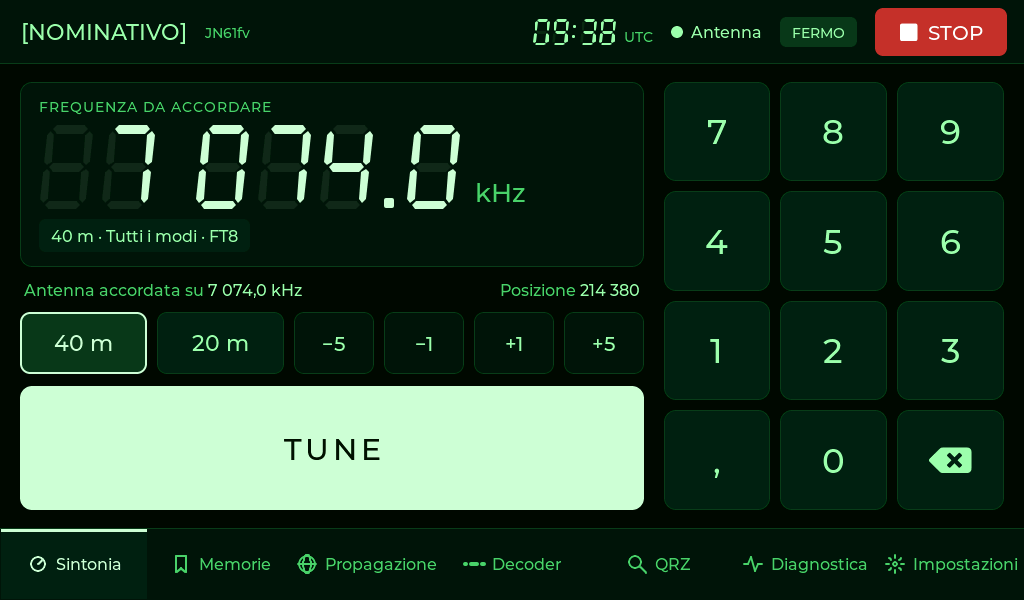
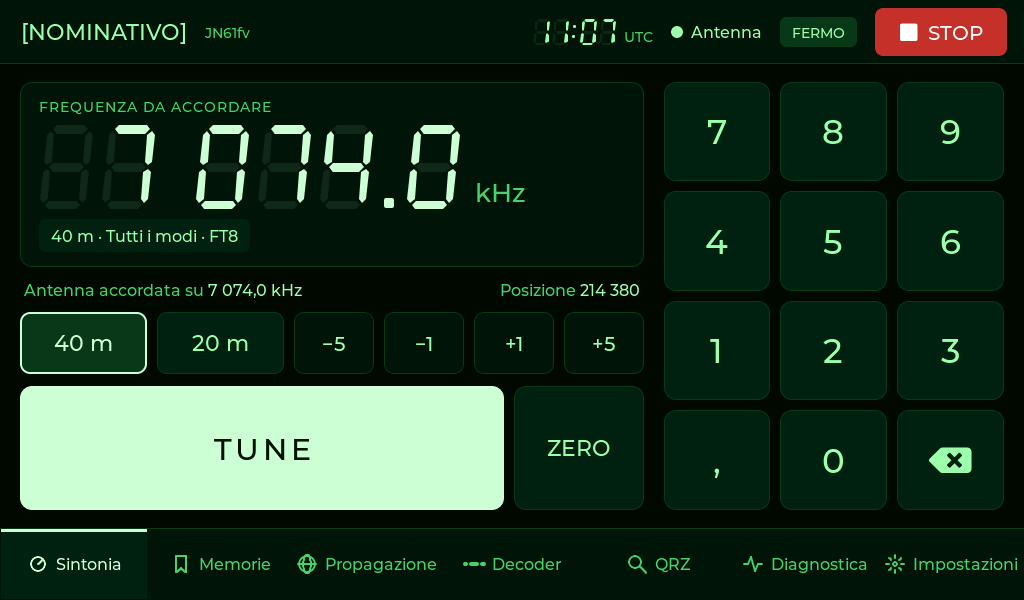
Pannello: pulsante ZERO in Sintonia e in Calibrazione
Mancava sul pannello (c'era solo nella pagina web e in console), mentre la
Calibrazione chiedeva di premerlo prima del jog.
- Sintonia: ZERO accanto a TUNE (requisito S7).
- Calibrazione: ZERO nel riquadro della posizione (requisito K1).
Disattivati quando l'antenna non è collegata. Schermate aggiornate.

Changed region(s): [[0.4688, 0.63, 0.6562, 0.87], [0.2188, 0.72, 0.375, 0.78], [0.5312, 0.03, 0.5938, 0.09]]

diff --git a/firmware/pannello/src/ui/pagina_sintonia.cpp b/firmware/pannello/src/ui/pagina_sintonia.cpp
@@ -27,6 +27,7 @@ lv_obj_t* testoPosizione;
 lv_obj_t* btn40;
 lv_obj_t* btn20;
 lv_obj_t* btnTune;
+lv_obj_t* btnZero;
 
 const char* TASTI[] = {"7", "8", "9", "\n", "4", "5", "6", "\n", "1", "2", "3", "\n",
                        ",", "0", LV_SYMBOL_BACKSPACE, ""};
@@ -89,6 +90,9 @@ void aggiornaIngresso() {
   }
   ui::stilePulsante(btn40, b == bande::Banda::B40M ? ui::Stile::ATTIVO : ui::Stile::NORMALE);
   ui::stilePulsante(btn20, b == bande::Banda::B20M ? ui::Stile::ATTIVO : ui::Stile::NORMALE);
+
+  if (collegato) lv_obj_clear_state(btnZero, LV_STATE_DISABLED);
+  else lv_obj_add_state(btnZero, LV_STATE_DISABLED);
 
   lv_obj_t* l = lv_obj_get_child(btnTune, 0);
   if (valida && collegato) {
@@ -161,6 +165,9 @@ void premiTune(lv_event_t*) {
   fresco = true;
 }
 
+// Azzeramento sul finecorsa (anche il primo TUNE di ogni banda lo fa da solo)
+void premiZero(lv_event_t*) { link_antenna::invia(proto::Tipo::ZERO); }
+
 }  // namespace
 
 void crea(lv_obj_t* c) {
@@ -207,12 +214,19 @@ void crea(lv_obj_t* c) {
     lv_obj_add_event_cb(b, premiPasso, LV_EVENT_CLICKED, (void*)(intptr_t)passi[i]);
   }
 
-  btnTune = ui::pulsante(sx, "TUNE", &font_30, ui::Stile::PRIMARIO);
-  lv_obj_set_width(btnTune, LV_PCT(100));
+  lv_obj_t* filaTune = ui::contenitore(sx, LV_FLEX_FLOW_ROW, 10);
+  lv_obj_set_width(filaTune, LV_PCT(100));
+  lv_obj_set_flex_grow(filaTune, 1);
+  btnTune = ui::pulsante(filaTune, "TUNE", &font_30, ui::Stile::PRIMARIO);
+  lv_obj_set_height(btnTune, LV_PCT(100));
   lv_obj_set_flex_grow(btnTune, 1);
   lv_obj_set_style_radius(btnTune, 12, 0);
   lv_obj_set_style_text_letter_space(lv_obj_get_child(btnTune, 0), 4, 0);
   lv_obj_add_event_cb(btnTune, premiTune, LV_EVENT_CLICKED, nullptr);
+  btnZero = ui::pulsante(filaTune, "ZERO", &font_22, ui::Stile::NORMALE);
+  lv_obj_set_size(btnZero, 130, LV_PCT(100));
+  lv_obj_set_style_radius(btnZero, 12, 0);
+  lv_obj_add_event_cb(btnZero, premiZero, LV_EVENT_CLICKED, nullptr);
 
   // --- tastierino ---
   lv_obj_t* bm = lv_btnmatrix_create(c);

diff --git a/firmware/pannello/src/ui/pagina_calibrazione.cpp b/firmware/pannello/src/ui/pagina_calibrazione.cpp
@@ -25,6 +25,7 @@ lv_obj_t* btn40;
 lv_obj_t* btn20;
 lv_obj_t* displayPos;
 lv_obj_t* testoMm;
+lv_obj_t* btnZero;
 lv_obj_t* campoFreq;
 lv_obj_t* tastiera = nullptr;
 lv_obj_t* grafico;
@@ -74,6 +75,8 @@ void scegliBanda(lv_event_t* e) {
   evidenziaBanda();
   link_antenna::richiediTabella(banda);
 }
+
+void premiZero(lv_event_t*) { link_antenna::invia(proto::Tipo::ZERO); }
 
 void premiJog(lv_event_t* e) {
   link_antenna::invia(proto::Tipo::JOG, 0, (int32_t)(intptr_t)lv_event_get_user_data(e));
@@ -229,6 +232,11 @@ void crea(lv_obj_t* c) {
   displayPos = display7::crea(pos, 48, t.accent, t.segOffAccent);
   display7::testo(displayPos, "___ ___");
   testoMm = ui::etichetta(pos, "Arrivo sempre dal verso crescente", &font_14, t.text2);
+  btnZero = ui::pulsante(pos, "ZERO", &font_18, ui::Stile::NORMALE);
+  lv_obj_add_flag(btnZero, LV_OBJ_FLAG_FLOATING);  // in alto a destra, fuori dalla colonna
+  lv_obj_set_size(btnZero, 100, 44);
+  lv_obj_align(btnZero, LV_ALIGN_TOP_RIGHT, 0, 0);
+  lv_obj_add_event_cb(btnZero, premiZero, LV_EVENT_CLICKED, nullptr);
 
   lv_obj_t* jog = ui::contenitore(sx, LV_FLEX_FLOW_ROW_WRAP, 8);
   lv_obj_set_width(jog, LV_PCT(100));
@@ -306,6 +314,8 @@ void mostrata() { link_antenna::richiediTabella(banda); }
 
 void aggiorna(const link_antenna::Stato& s) {
   char buf[16];
+  if (s.collegato) lv_obj_clear_state(btnZero, LV_STATE_DISABLED);
+  else lv_obj_add_state(btnZero, LV_STATE_DISABLED);
   if (s.ricevuta) {
     long p = (long)s.r.posizione;
     if (p < 0) p = 0;

diff --git a/docs/memoria/decisioni.md b/docs/memoria/decisioni.md
@@ -23,6 +23,7 @@ Registro delle scelte fatte e delle alternative scartate, con il motivo. Aggiorn
 | Display all'antenna | OLED 0,96" SSD1306 (ELEGOO) su I2C SDA 21 / SCL 22, facoltativo, spento dopo 2 minuti a riposo | Stato e MAC visibili sul banco e all'installazione; già cablato sui pin I2C standard |
 | EN del motore | GPIO 23 (prima 21) | Il 21 va al display; il 23 è libero all'accensione, il 4 ha una pull-down |
 | Toolchain dell'antenna | arduino-cli con il core esp32 3.1.1, come il pannello (`compila.sh tx\|rx`) | Un solo core sul Mac; evita PlatformIO dopo l'avviso malware; compila senza modifiche |
+| Pulsante ZERO sul pannello | In Sintonia accanto a TUNE e in Calibrazione nel riquadro della posizione | Mancava: c'era solo nella pagina web e in console |
 | Associazione | Pulsante BOOT (GPIO 0) dell'antenna premuto 3 s, ricerca su tutti i canali, conferma con la finestra «Antenna trovata» sul pannello; l'antenna già associata si conferma da sola; protocollo v4 | Richiesta dell'utente; niente MAC da copiare e il canale del router si trova da solo |
 | Canale ESP-NOW dell'antenna | Ricerca automatica quando il pannello tace (messaggio di stato su ogni canale, vince quello con l'ACK del pannello), salvato in NVS; anche `canale` da console | Il router cambia spesso canale; meno di un secondo, senza password del WiFi |
 | Isolamento albero RX | Barra ABS 8 mm tra due giunti metallici | Albero e telaio del variabile portano RF |

diff --git a/docs/software/03-unita-controllo.md b/docs/software/03-unita-controllo.md
@@ -57,6 +57,7 @@ Sezioni collegate: [08 — Decoder CW/RTTY](08-decoder.md), [09 — Propagazione
 | S4 | Pulsanti **40 m** / **20 m** (propongono l'ultima frequenza usata nella banda) | [D] |
 | S5 | Tasti di passo **±1** e **±5 kHz** | [D] |
 | S6 | **TUNE** invia la frequenza; disattivato se fuori banda (7 000–7 200, 14 000–14 350 kHz), con avviso | [D] |
+| S7 | **ZERO** accanto a TUNE: azzeramento sul finecorsa a richiesta (il primo TUNE di ogni banda lo fa da solo); disattivato senza antenna | [D] |
 
 ### C2. Memorie
 | ID | Requisito | |
@@ -103,7 +104,7 @@ Sezioni collegate: [08 — Decoder CW/RTTY](08-decoder.md), [09 — Propagazione
 ### C7. Calibrazione (da Impostazioni)
 | ID | Requisito | |
 |---|---|---|
-| K1 | Scelta banda 40 / 20 m; posizione del motore su display a 7 segmenti | [D] |
+| K1 | Scelta banda 40 / 20 m; posizione del motore su display a 7 segmenti, con pulsante **ZERO** (serve prima del jog) | [D] |
 | K2 | Jog ±10 / ±100 / ±1000 passi; frequenza del dip letta sul NanoVNA; **Salva punto** | [D] |
 | K3 | Grafico posizione ↔ frequenza e tabella dei punti con eliminazione | [D] |
 
